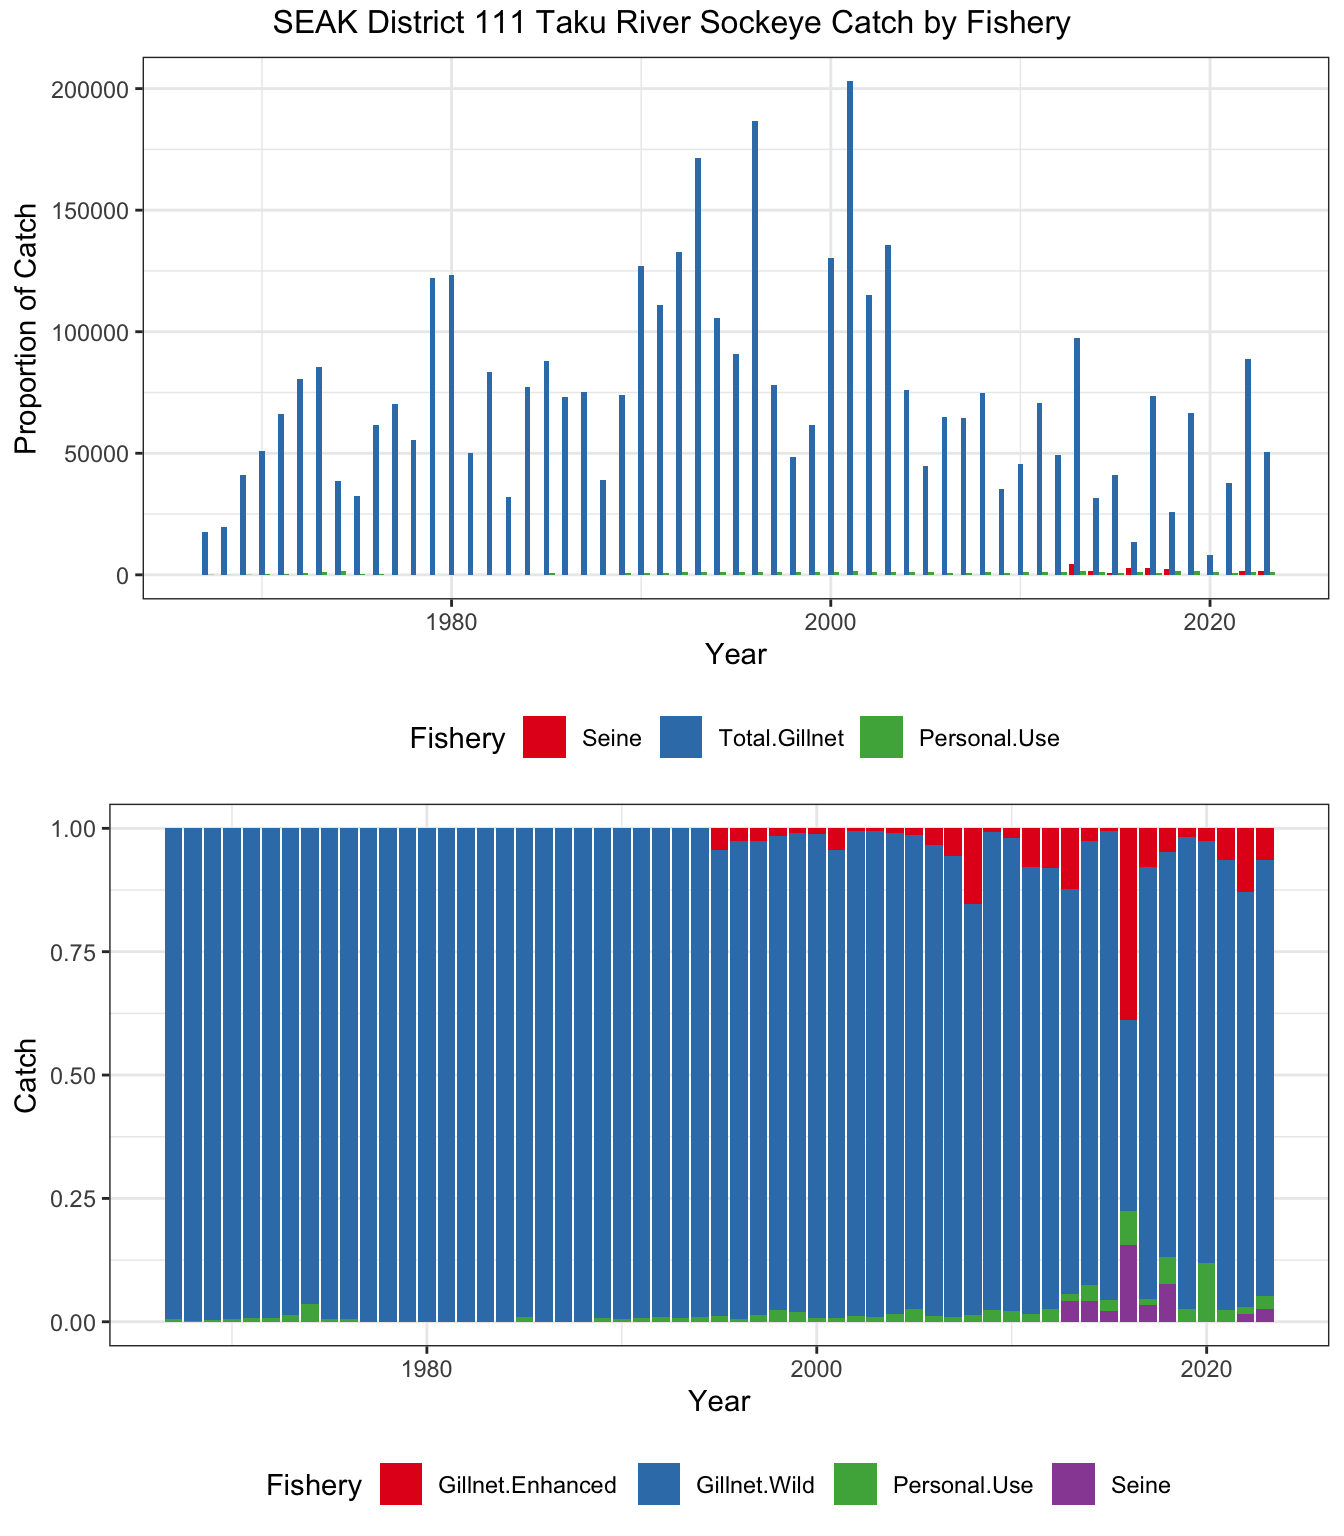
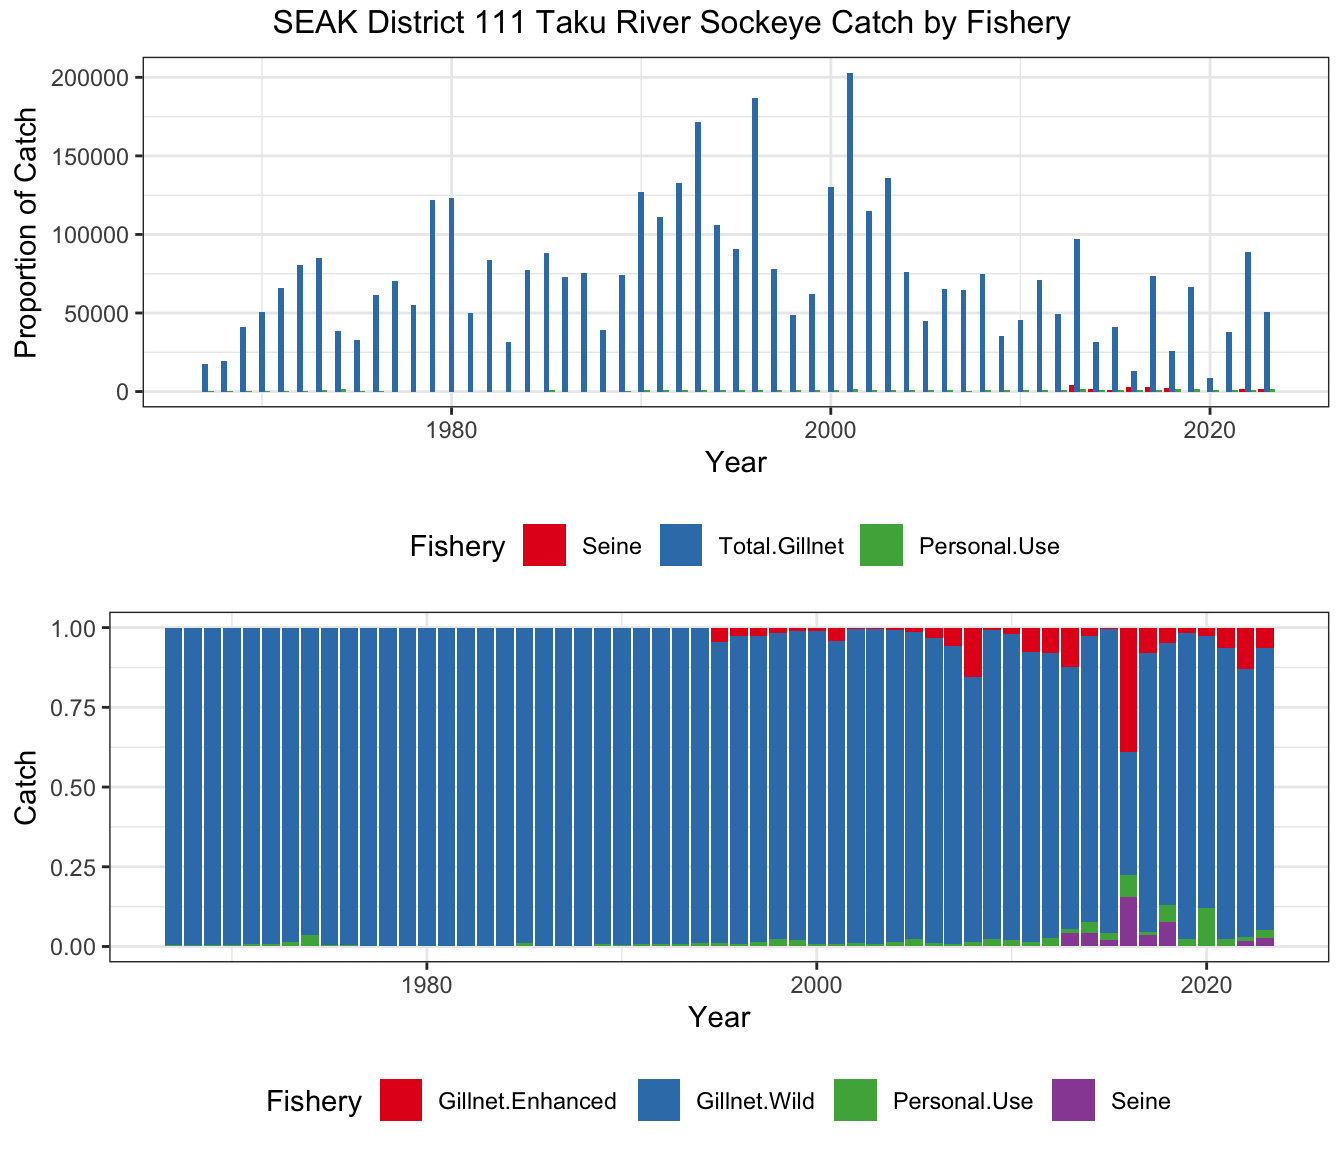
change figure heights

diff --git a/docs/SEAK-summary.html b/docs/SEAK-summary.html
@@ -892,6 +892,20 @@ Figure&nbsp;49: Taku River sockeye salmon Canadian harvest, US harvest, and esca
 </div>
 </div>
 </div>
+<div class="cell">
+<div class="cell-output-display">
+<div id="fig-alsek-cn-catch" class="quarto-float quarto-figure quarto-figure-center anchored">
+<figure class="quarto-float quarto-float-fig figure">
+<div aria-describedby="fig-alsek-cn-catch-caption-0ceaefa1-69ba-4598-a22c-09a6ac19f8ca">
+<img src="SEAK-summary_files/figure-html/fig-alsek-cn-catch-1.png" class="img-fluid figure-img" width="672">
+</div>
+<figcaption class="quarto-float-caption-bottom quarto-float-caption quarto-float-fig" id="fig-alsek-cn-catch-caption-0ceaefa1-69ba-4598-a22c-09a6ac19f8ca">
+Figure&nbsp;50: Canadian and US catch of Alsek River Chinook salmon by fishery, 1960-2023.
+</figcaption>
+</figure>
+</div>
+</div>
+</div>
 </section>
 <section id="steelhead" class="level1">
 <h1>Steelhead</h1>
